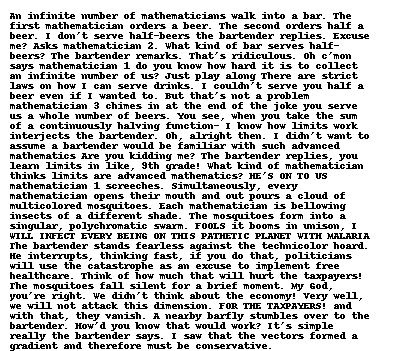
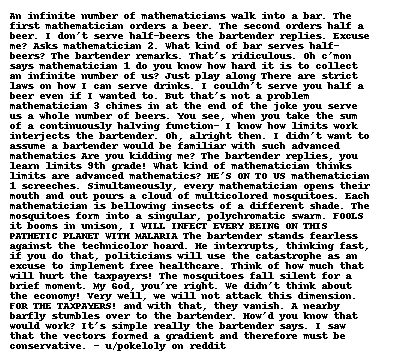
Attribute the secret msg

Changed region(s): [[0.0, 0.4558, 0.93, 1.0]]

diff --git a/steganography.py b/steganography.py
@@ -88,6 +88,6 @@ if __name__ == '__main__':
     decode_image("images/encoded_image.png")
 
     print("Encoding the image...")
-    text = "An infinite number of mathematicians walk into a bar. The first mathematician orders a beer. The second orders half a beer. I don't serve half-beers the bartender replies. Excuse me? Asks mathematician 2. What kind of bar serves half-beers? The bartender remarks. That's ridiculous. Oh c'mon says mathematician 1 do you know how hard it is to collect an infinite number of us? Just play along There are strict laws on how I can serve drinks. I couldn't serve you half a beer even if I wanted to. But that's not a problem mathematician 3 chimes in at the end of the joke you serve us a whole number of beers. You see, when you take the sum of a continuously halving function- I know how limits work interjects the bartender. Oh, alright then. I didn't want to assume a bartender would be familiar with such advanced mathematics Are you kidding me? The bartender replies, you learn limits in like, 9th grade! What kind of mathematician thinks limits are advanced mathematics? HE'S ON TO US mathematician 1 screeches. Simultaneously, every mathematician opens their mouth and out pours a cloud of multicolored mosquitoes. Each mathematician is bellowing insects of a different shade. The mosquitoes form into a singular, polychromatic swarm. FOOLS it booms in unison, I WILL INFECT EVERY BEING ON THIS PATHETIC PLANET WITH MALARIA The bartender stands fearless against the technicolor hoard. He interrupts, thinking fast, if you do that, politicians will use the catastrophe as an excuse to implement free healthcare. Think of how much that will hurt the taxpayers! The mosquitoes fall silent for a brief moment. My God, you're right. We didn't think about the economy! Very well, we will not attack this dimension. FOR THE TAXPAYERS! and with that, they vanish. A nearby barfly stumbles over to the bartender. How'd you know that would work? It's simple really the bartender says. I saw that the vectors formed a gradient and therefore must be conservative."
+    text = "An infinite number of mathematicians walk into a bar. The first mathematician orders a beer. The second orders half a beer. I don't serve half-beers the bartender replies. Excuse me? Asks mathematician 2. What kind of bar serves half-beers? The bartender remarks. That's ridiculous. Oh c'mon says mathematician 1 do you know how hard it is to collect an infinite number of us? Just play along There are strict laws on how I can serve drinks. I couldn't serve you half a beer even if I wanted to. But that's not a problem mathematician 3 chimes in at the end of the joke you serve us a whole number of beers. You see, when you take the sum of a continuously halving function- I know how limits work interjects the bartender. Oh, alright then. I didn't want to assume a bartender would be familiar with such advanced mathematics Are you kidding me? The bartender replies, you learn limits 9th grade! What kind of mathematician thinks limits are advanced mathematics? HE'S ON TO US mathematician 1 screeches. Simultaneously, every mathematician opens their mouth and out pours a cloud of multicolored mosquitoes. Each mathematician is bellowing insects of a different shade. The mosquitoes form into a singular, polychromatic swarm. FOOLS it booms in unison, I WILL INFECT EVERY BEING ON THIS PATHETIC PLANET WITH MALARIA The bartender stands fearless against the technicolor hoard. He interrupts, thinking fast, if you do that, politicians will use the catastrophe as an excuse to implement free healthcare. Think of how much that will hurt the taxpayers! The mosquitoes fall silent for a brief moment. My God, you're right. We didn't think about the economy! Very well, we will not attack this dimension. FOR THE TAXPAYERS! and with that, they vanish. A nearby barfly stumbles over to the bartender. How'd you know that would work? It's simple really the bartender says. I saw that the vectors formed a gradient and therefore must be conservative. - u/pokeloly on reddit"
 
     encode_image(text, "images/samoyed2.jpg")
